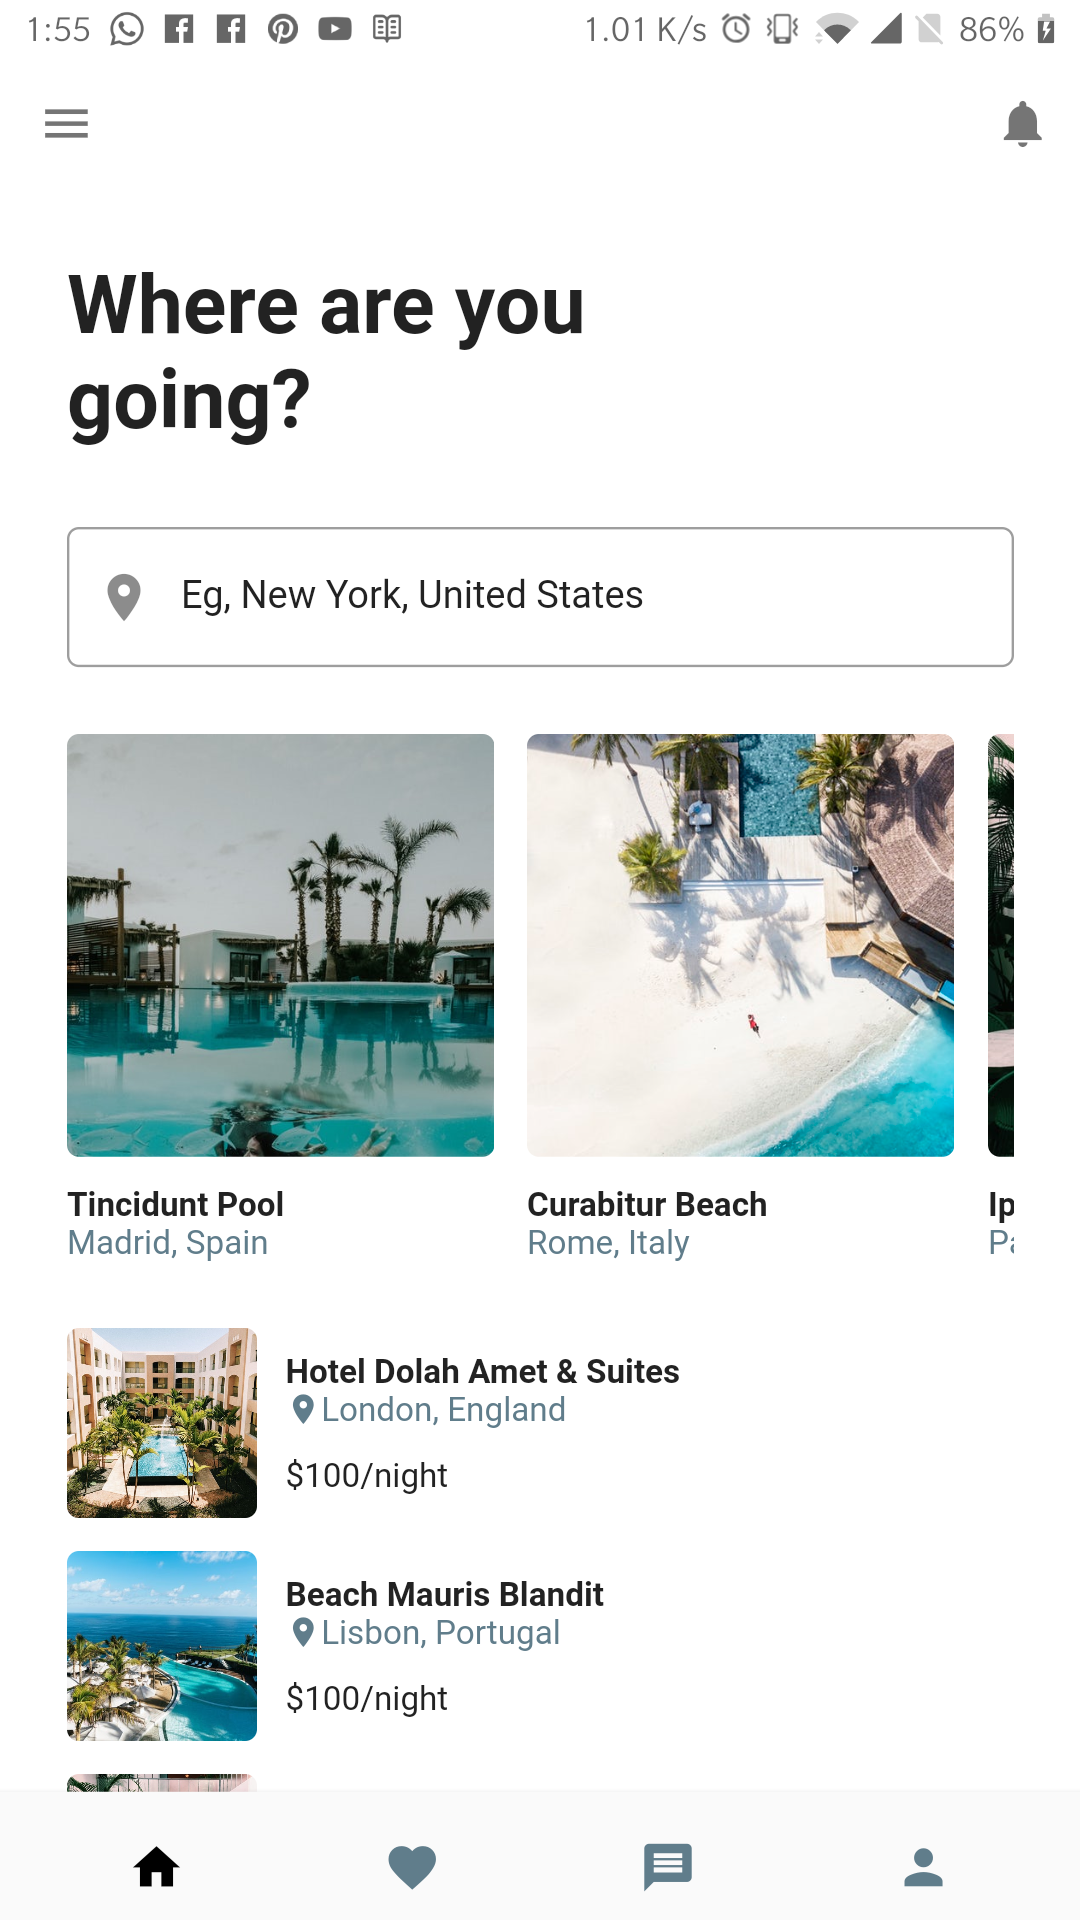
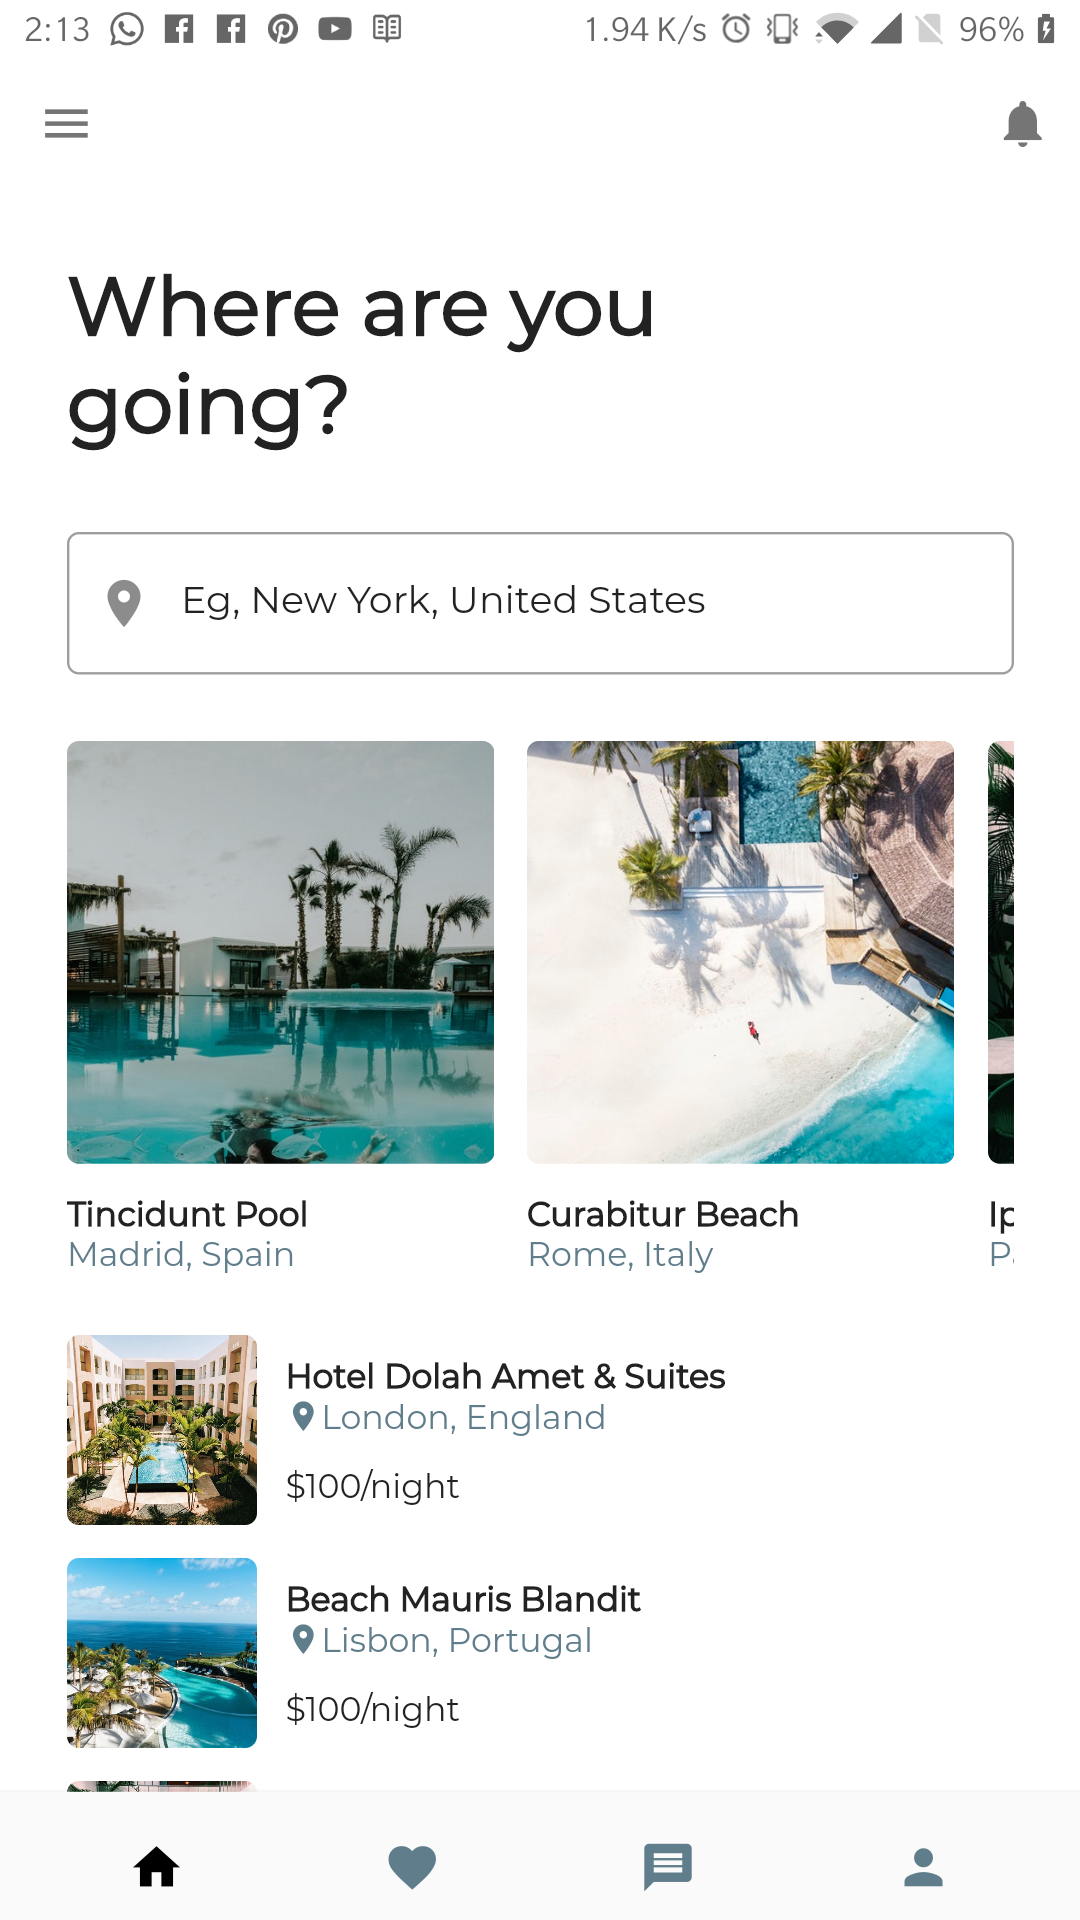
Change app font family

diff --git a/lib/main.dart b/lib/main.dart
@@ -15,6 +15,7 @@ class MyApp extends StatelessWidget {
       title: 'Flutter Travel',
       theme: ThemeData(
         primarySwatch: Colors.blue,
+        fontFamily: 'Montserrat'
       ),
       home: MyHomePage(title: 'Mon application'),
     );
@@ -50,11 +51,11 @@ class _MyHomePageState extends State<MyHomePage> {
     // TODO: implement initState
     super.initState();
 
-    /* SystemChrome.setEnabledSystemUIOverlays(SystemUiOverlay.values);
+    SystemChrome.setEnabledSystemUIOverlays(SystemUiOverlay.values);
 
     SystemChrome.setSystemUIOverlayStyle(
      SystemUiOverlayStyle(statusBarColor: Colors.white)
-    ); */
+    );
   }
 
 
